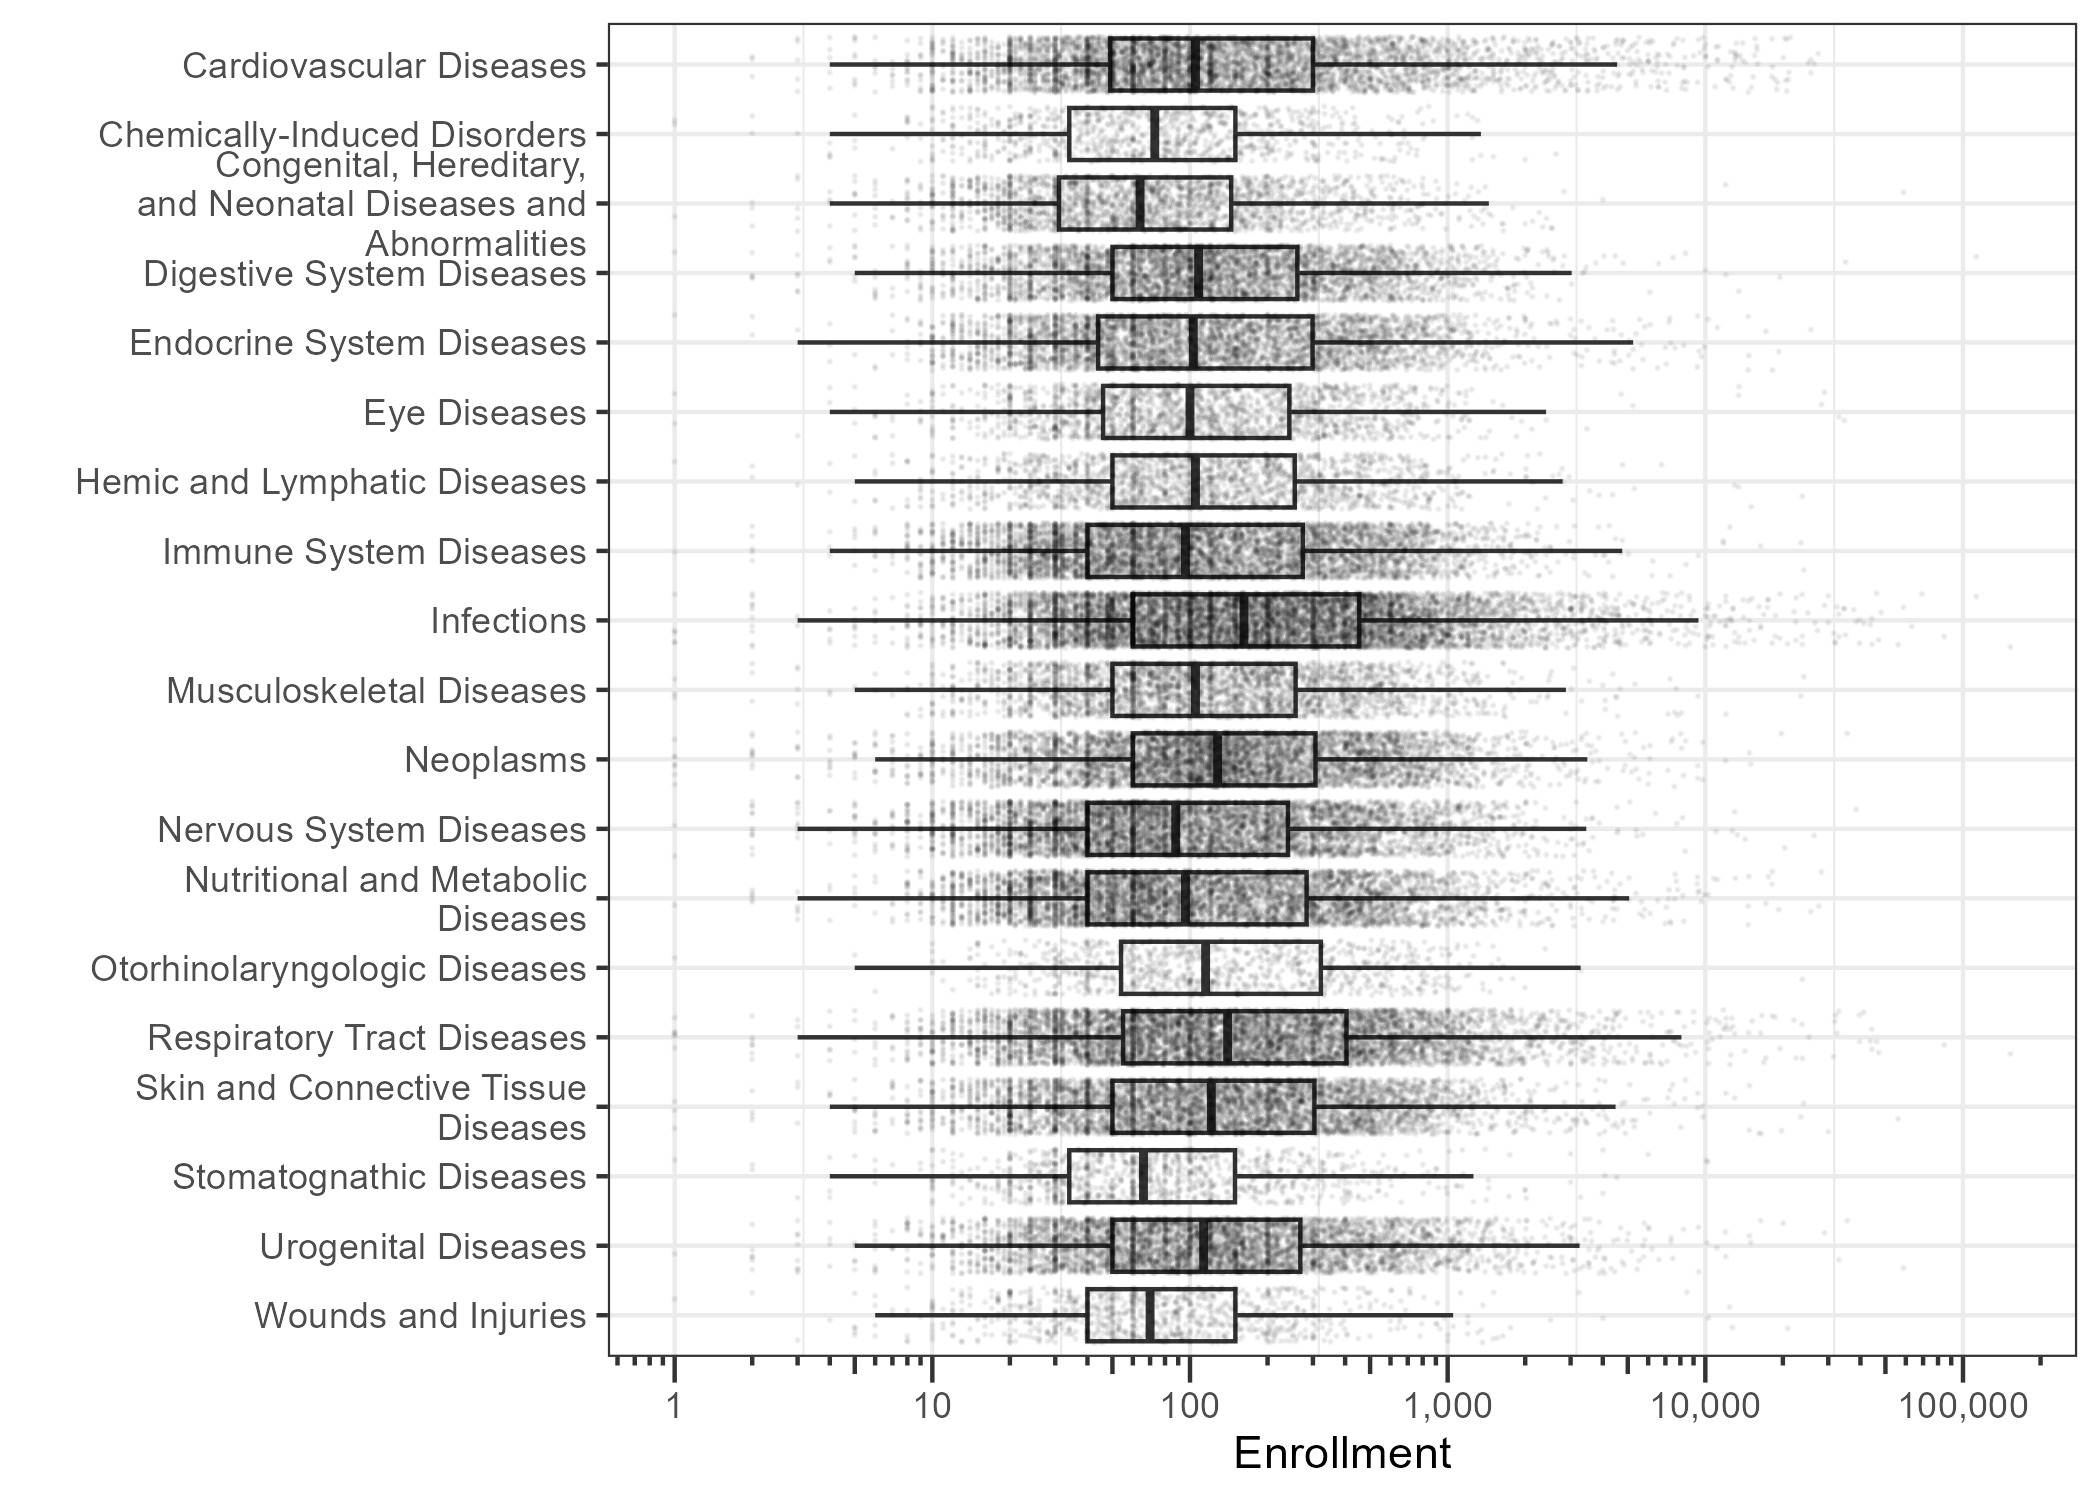
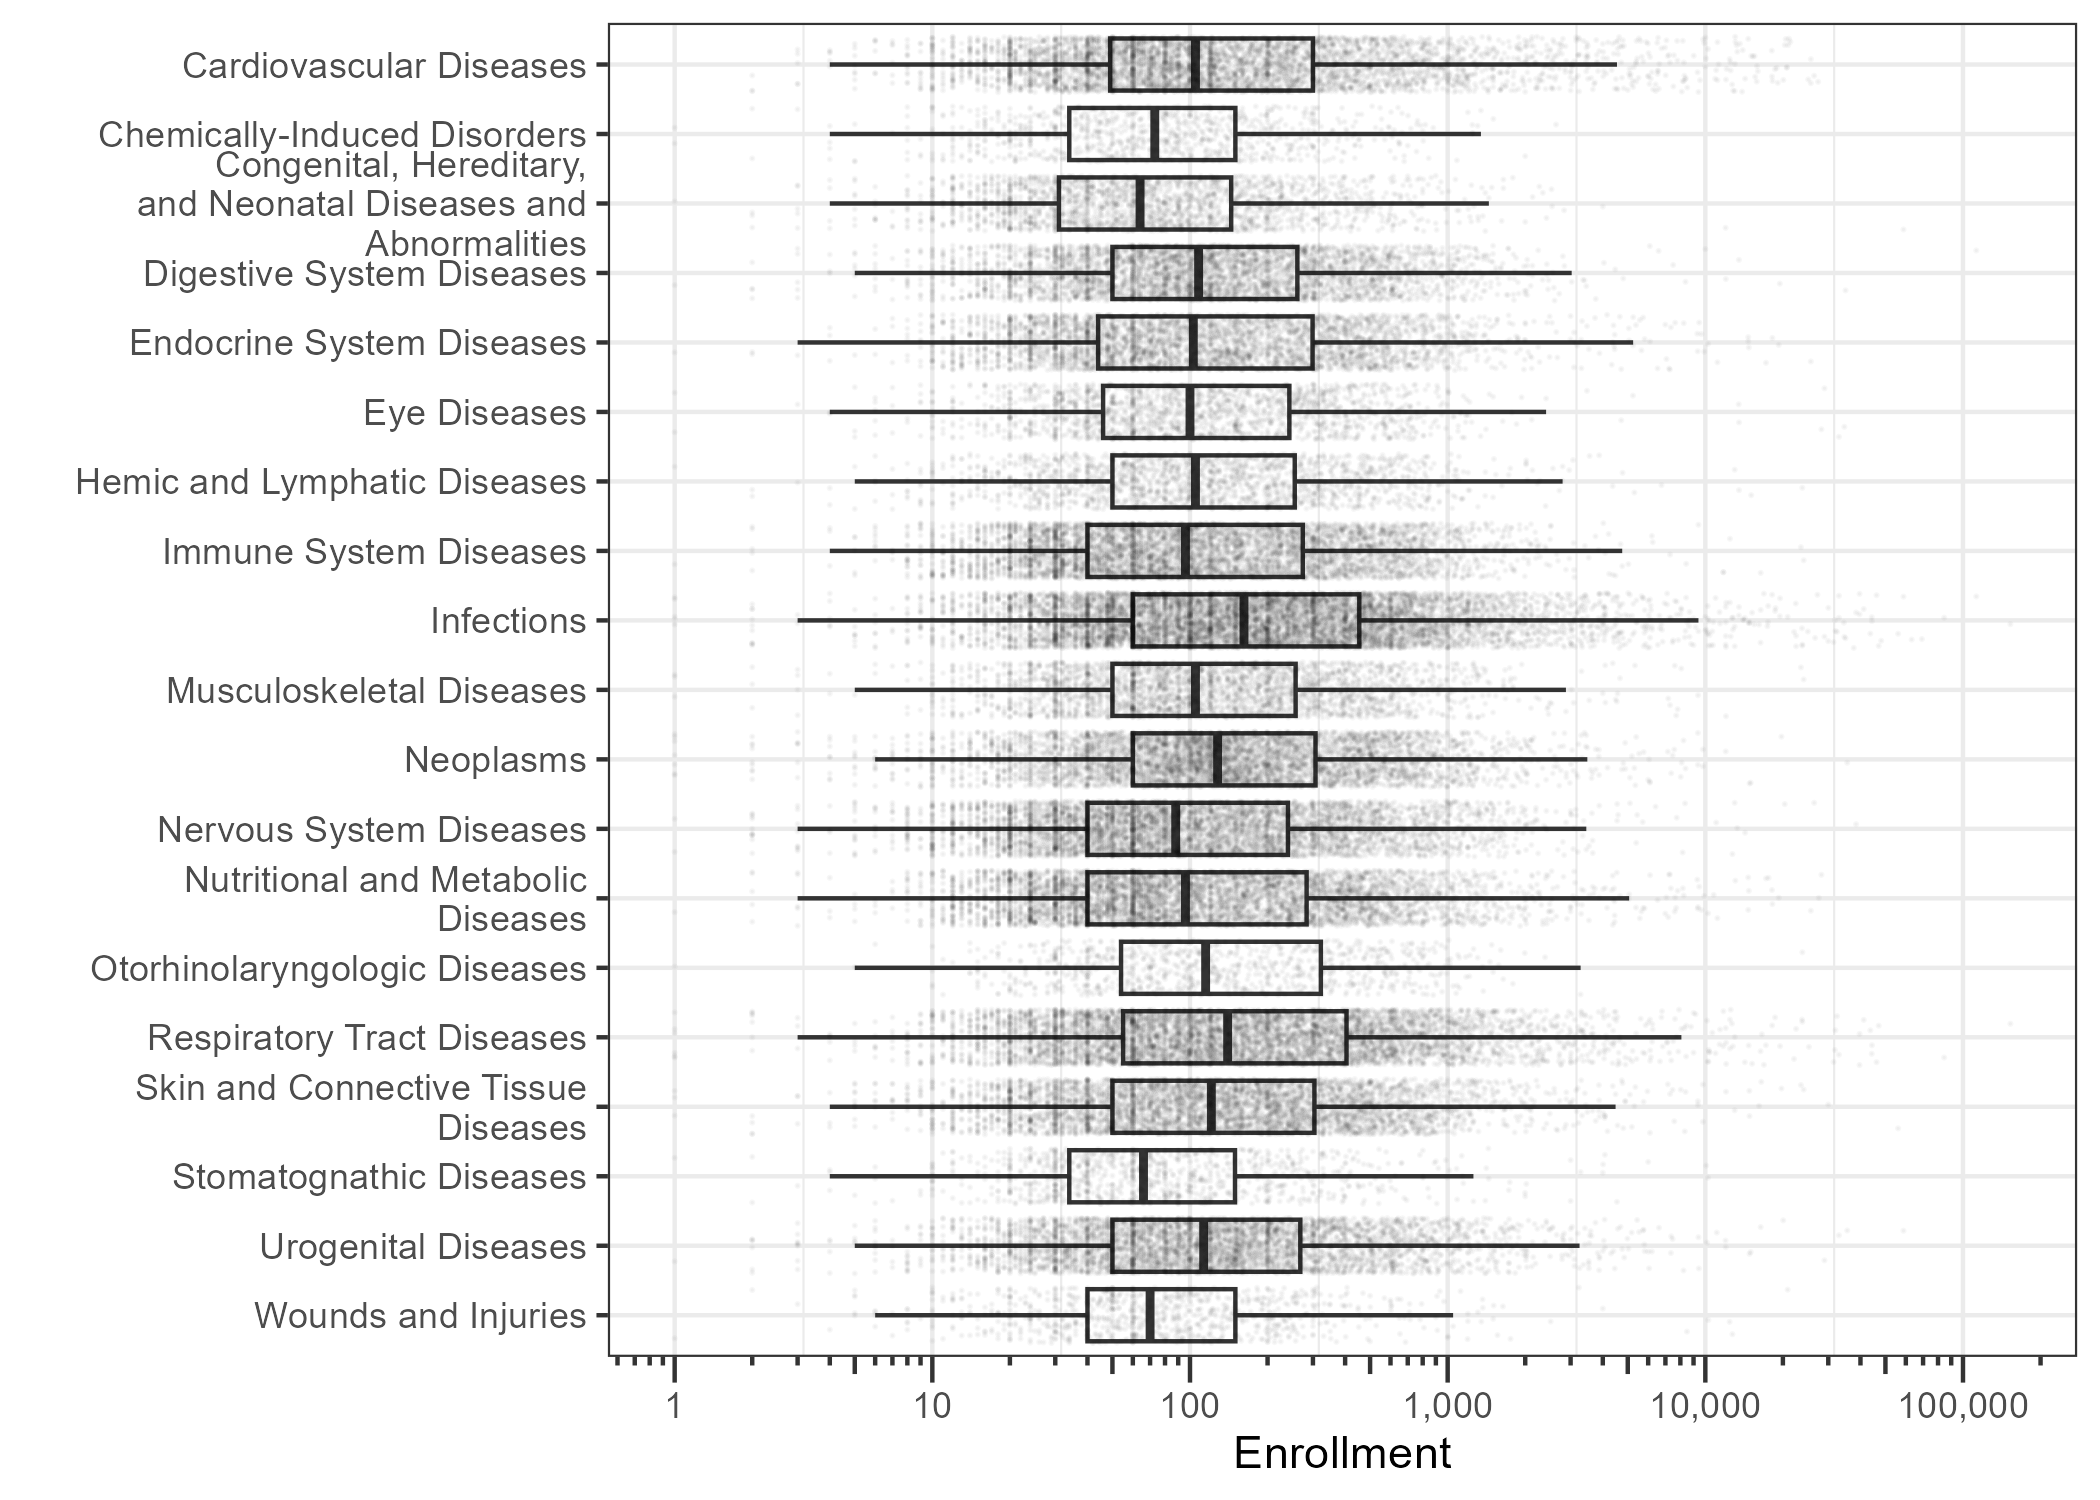
Improved figures.

Changed region(s): [[0.4333, 0.0, 0.7738, 0.8893]]

diff --git a/README.md b/README.md
@@ -179,9 +179,9 @@ bench::mark(
     ## # A tibble: 3 × 6
     ##   expression                            min  median `itr/sec` mem_alloc `gc/sec`
     ##   <bch:expr>                        <bch:t> <bch:t>     <dbl> <bch:byt>    <dbl>
-    ## 1 "jsonlite::fromJSON(\"./ctg-stud…  60.4ms 67.68ms      14.4    1.54MB    23.3 
-    ## 2 "rjson::fromJSON(file = \"./ctg-…  6.95ms  7.42ms     122.    321.2KB    12.0 
-    ## 3 "RJSONIO::fromJSON(\"./ctg-studi… 14.49ms 16.37ms      56.3    1.48MB     3.89
+    ## 1 "jsonlite::fromJSON(\"./ctg-stud… 66.39ms 68.19ms      13.6    1.54MB    21.4 
+    ## 2 "rjson::fromJSON(file = \"./ctg-…  7.37ms  8.38ms     111.    321.2KB    11.9 
+    ## 3 "RJSONIO::fromJSON(\"./ctg-studi… 15.22ms 16.12ms      60.4    1.48MB     3.90
 
 Based on these results, we will use the `rjson` package.
 
@@ -649,7 +649,7 @@ areas for which we have at least 100 trials):
 ggplot(RawDataMeSH[N > 100 & Enrollment > 0],
        aes(y = ConditionMeSHHeadNamePrint, x = Enrollment)) +
   geom_boxplot(outliers = FALSE) +
-  geom_jitter(size = 0.1, alpha = 0.05) +
+  geom_jitter(size = 0.05, alpha = 0.03) +
   scale_x_log10(breaks = scales::breaks_log(n = 6),
                 labels = scales::label_comma(),
                 guide = "axis_logticks") + 
@@ -799,7 +799,7 @@ least 100 trials):
 ggplot(RawDataMeSH[N > 100 & !is.na(EstFU) & EstFU > 0.1],
        aes(y = ConditionMeSHHeadNamePrint, x = EstFU)) +
   geom_boxplot(outliers = FALSE) +
-  geom_jitter(size = 0.1, alpha = 0.05) +
+  geom_jitter(size = 0.05, alpha = 0.03) +
   scale_x_log10(breaks = scales::breaks_log(n = 6),
                 labels = scales::label_comma(),
                 guide = "axis_logticks") + 
